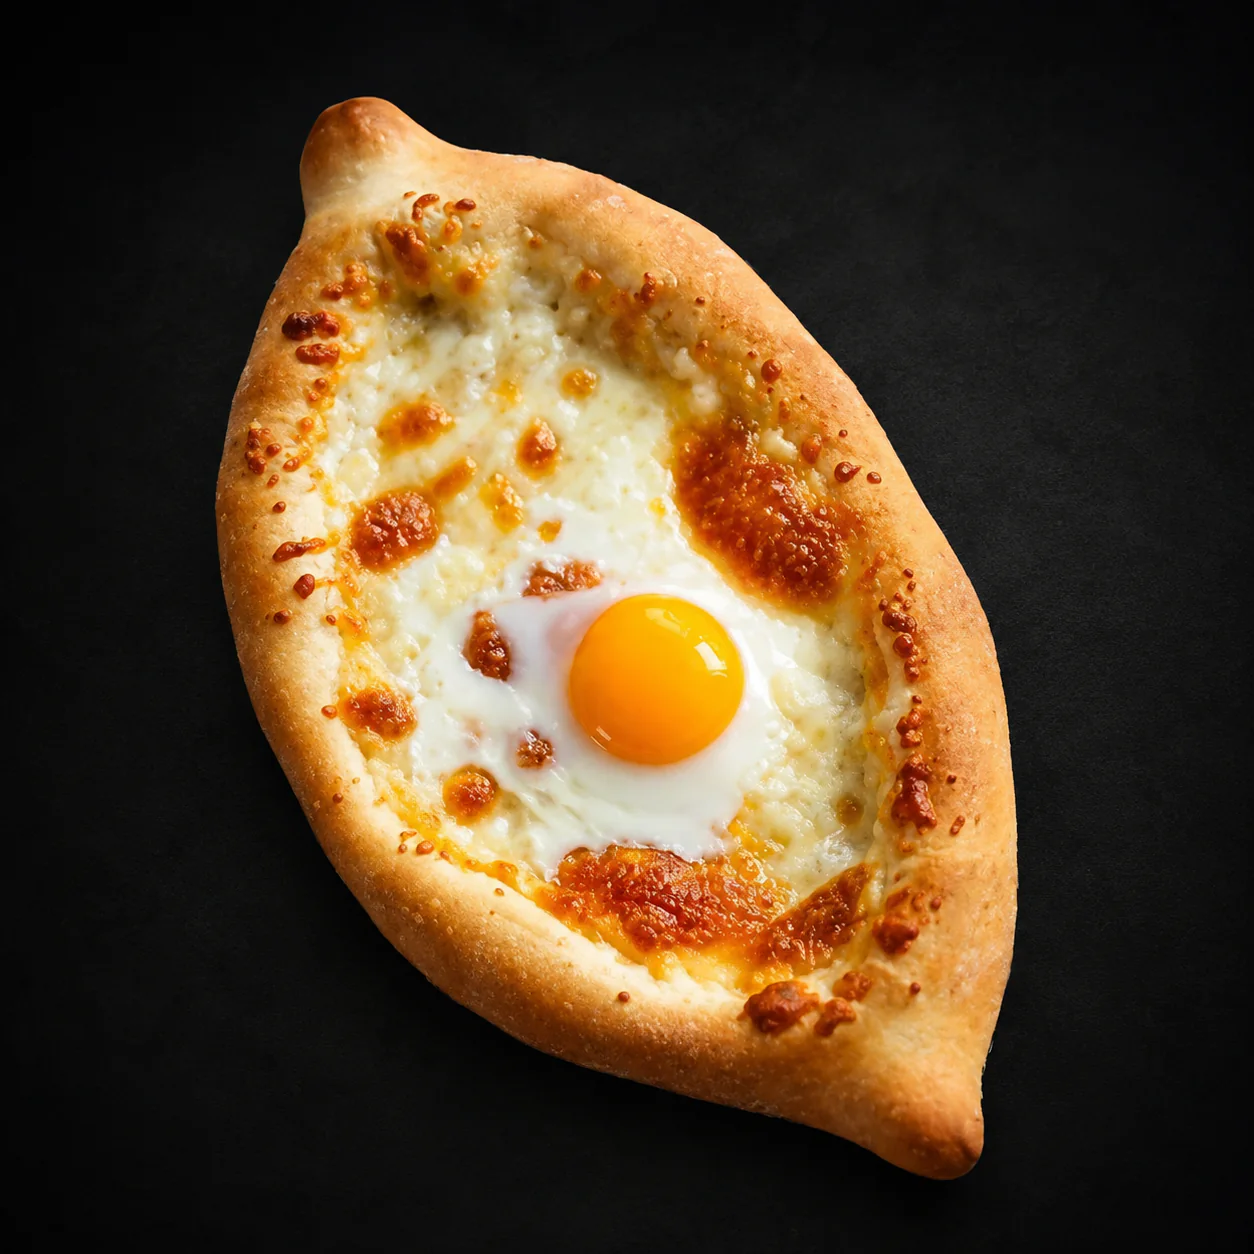
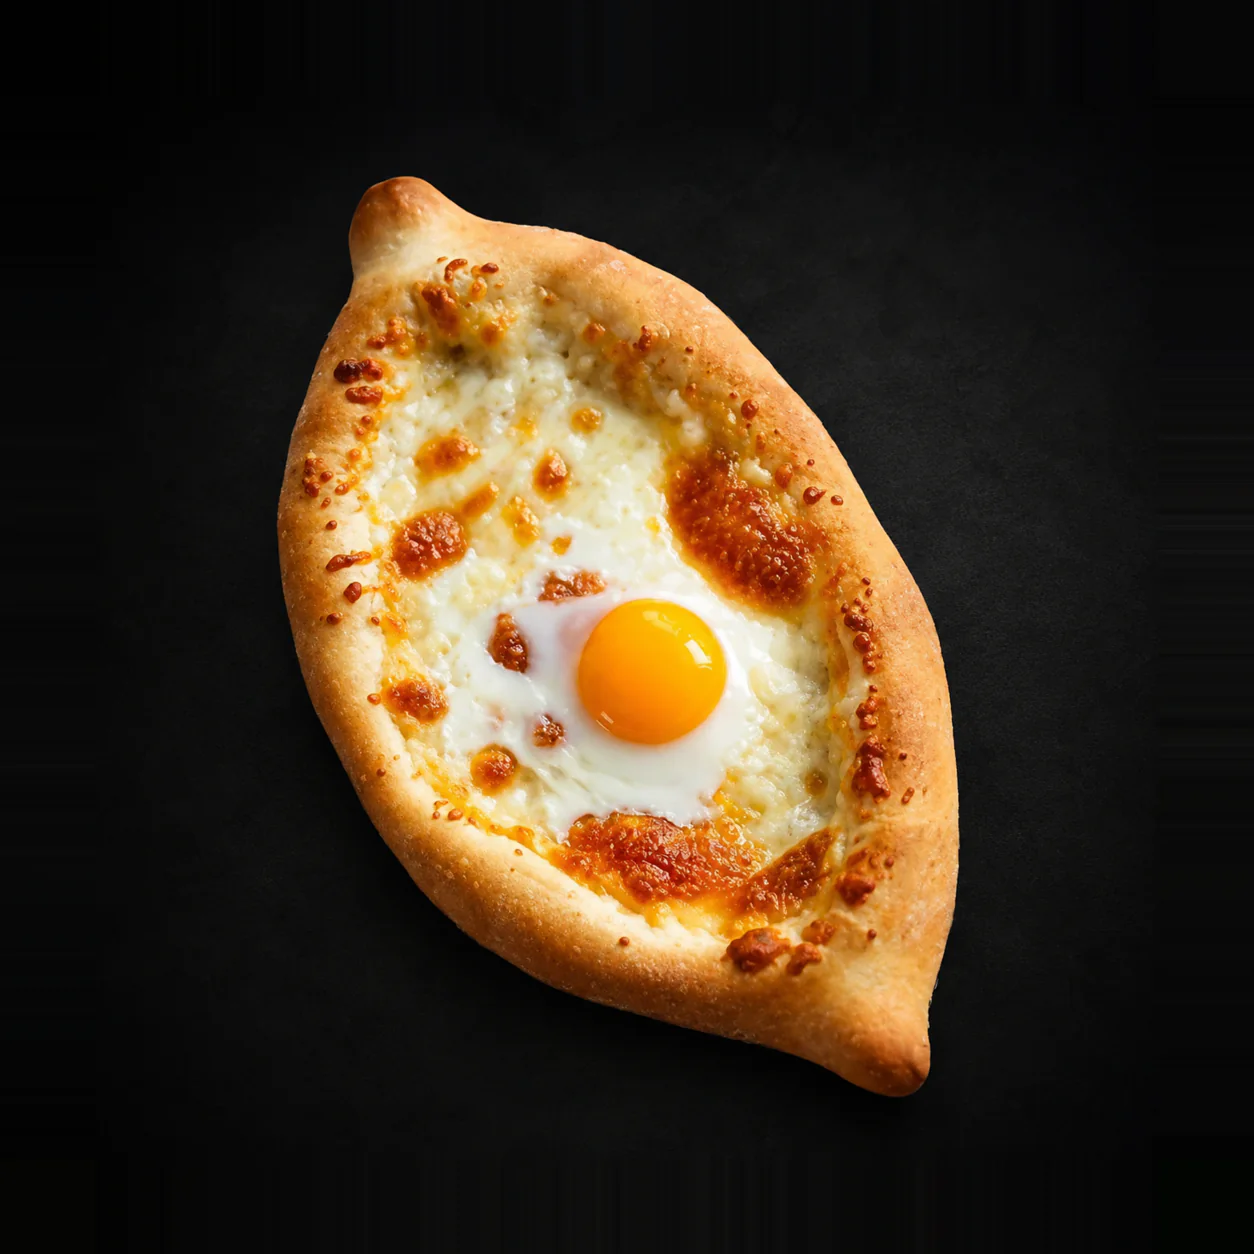
Fit the khachapuri medallion and give soups a photo
The Adjarian khachapuri arrived framed corner to corner: its boat reached
1.012 of the frame radius, so the circular medallion sliced off the lower-right
tip. The site's carta strip crops the same file at 240 px behind a deeper
vignette, so it lost more. Re-exported from the delivered master, scaled to 0.85
about the centre with the dark ground extended outward, which puts the dish at
0.86 of the radius — level with manti.webp. Nothing was retouched or recomposed;
only the scale changed.

Soups had been running without a medallion because suyru-lagman.webp could never
be attributed to one of the two lagmans. The borscht photograph supplied on
2026-08-08 closes the slot unambiguously: the section already lists Borscht, and
the dish sits at 0.85 of the radius as delivered.

Recorded the medallion's fit budget where the next photo will be prepared: the
crop is the inscribed circle plus a rim vignette, so the dish has to stay inside
roughly 0.90 of the radius measured diagonally. The dish README now carries a
runnable check and the re-padding command.

Verified in all three locales: khachapuri and borscht render clear of the rim on
ES/EN desktop and RU at 375 px, and the khachapuri reads correctly in the site's
carta strip. Repository guard, menu build and tests, website lint and tests all
pass.

diff --git a/menu/ru.html b/menu/ru.html
@@ -267,7 +267,7 @@
       <p>Домашние согревающие супы на любой вкус</p>
     </div>
     <div class="section-body">
-
+      <figure class="section-photo"><img src="assets/dishes/borscht.webp" alt="Борщ" width="1254" height="1254" loading="lazy" decoding="async"></figure>
       <div class="menu-grid"><article class="menu-item" data-menu-item>
     <div class="item-heading">
       <h3>Уха от шефа</h3>

diff --git a/menu/index.html b/menu/index.html
@@ -264,7 +264,7 @@
       <p>Sopas caseras, reconfortantes para todos los gustos</p>
     </div>
     <div class="section-body">
-
+      <figure class="section-photo"><img src="assets/dishes/borscht.webp" alt="Borscht" width="1254" height="1254" loading="lazy" decoding="async"></figure>
       <div class="menu-grid"><article class="menu-item" data-menu-item>
     <div class="item-heading">
       <h3>Sopa de pescado</h3>

diff --git a/menu/en.html b/menu/en.html
@@ -264,7 +264,7 @@
       <p>Comforting homemade soups for every taste</p>
     </div>
     <div class="section-body">
-
+      <figure class="section-photo"><img src="assets/dishes/borscht.webp" alt="Borscht" width="1254" height="1254" loading="lazy" decoding="async"></figure>
       <div class="menu-grid"><article class="menu-item" data-menu-item>
     <div class="item-heading">
       <h3>Chef’s fish soup</h3>

diff --git a/PHOTO-BRIEF.md b/PHOTO-BRIEF.md
@@ -6,15 +6,19 @@
 
 ## Почему это нужно
 
-Все 10 фотографий блюд в меню вытащены из печатного PDF. В PDF они лежат при
+Изначально все фотографии блюд были вытащены из печатного PDF, где они лежат при
 **100–130 ppi и 315–800 px по длинной стороне** — это плотность для печати
 визитки, а не для экрана. При экспорте их растянули до 960 px, поэтому в
-медальонах видны мыло и артефакты JPEG: сильнее всего на манты, хачапури и
-плове. Ни одну из них нельзя показывать на ретине крупнее ~300 px, а дизайн
-меню и блок «La carta» на сайте показывают их как раз крупно.
+медальонах были видны мыло и артефакты JPEG. Ни одну из них нельзя показывать на
+ретине крупнее ~300 px, а дизайн меню и блок «La carta» на сайте показывают их
+как раз крупно.
 
-Отдельно: пяти блюд из пятнадцати вообще нет — разделы «Салаты», «Супы»,
-«Мангал», «Коктейли» и «Вино» сейчас идут без медальона.
+Поставки клиента 07–08.08.2026 закрыли девять слотов авторскими кадрами
+1254 × 1254. Из PDF остались два — `fruit-shakes.webp` и `hookah.webp`.
+
+Отдельно: четырёх блюд из пятнадцати вообще нет — разделы «Салаты», «Мангал»,
+«Коктейли» и «Вино» сейчас идут без медальона. «Супы» закрыты кадром борща от
+08.08.2026.
 
 ## Технические требования (общие)
 
@@ -28,7 +32,7 @@
 | Фон | тёмный, тёплый (#0a0907 … #1a150c), однородный, без белой скатерти |
 | Освещение | одна тёплая рисующая слева, мягкий контровой; направленный, не студийный «плоский» |
 | Ракурс | ровно сверху (flat lay) или 45°; **одинаково внутри одного меню** |
-| Композиция | блюдо по центру, вокруг 8–10 % воздуха: круглая маска срежет углы |
+| Композиция | блюдо по центру, вокруг 8–10 % воздуха. Маска — **круг, вписанный в квадрат**, плюс виньетка по ободу: считать запас надо по диагонали, а не по ширине. Самая дальняя точка блюда от центра — не дальше **0,90 радиуса** (проверка — в `assets/dishes/README.md`) |
 | Постобработка | без HDR, без пересвета бликов, тени сохраняем |
 
 Дополнительно, если получится: **тот же дубль с прозрачным фоном (PNG/WebP с
@@ -47,18 +51,22 @@
 | # | Файл | Раздел | Что снимать |
 | --- | --- | --- | --- |
 | 1 | `crispy-eggplant.webp` | Салаты | Хрустящие баклажаны в темпуре с томатами и базиликом |
-| 2 | `suyru-lagman.webp` | Супы | Суйру-лагман: пиала с бульоном, домашняя лапша, говядина, зелень |
 | 3 | `lula-kebab.webp` | Мангал | Люля-кебаб из баранины на углях, лаваш, красный лук |
 | 4 | `cocktails.webp` | Коктейли | Пара фирменных коктейлей на тёмной стойке, контровой свет по стеклу |
 | 5 | `wine.webp` | Вино | Бокал красного и бутылка Malbec, тёмный фон, блик по стеклу |
 
-### Закрыто — новые кадры от клиента (07.08.2026)
+Слот 2 (`suyru-lagman.webp`, Супы) снят с P1: раздел закрыт борщом. Кадр лагмана
+всё ещё пригодился бы, но тогда надо решить, какое из двух блюд («Суйру-лагман»
+или «Густой лагман») он показывает и какое из них ведёт раздел.
 
-Восемь слотов заменены авторскими кадрами 1254 × 1254 на чёрном фоне. Старые
+### Закрыто — новые кадры от клиента (07–08.08.2026)
+
+Девять слотов заменены авторскими кадрами 1254 × 1254 на чёрном фоне. Старые
 извлечения из PDF по этим позициям больше не используются.
 
 | # | Файл | Раздел | Что на кадре |
 | --- | --- | --- | --- |
+| 2 | `borscht.webp` | Супы | Борщ с говядиной и укропом, бородинский, чеснок, сметана (08.08.2026) |
 | 6 | `manti.webp` | На пару | Три манты-полумесяца со сметаной |
 | 7 | `adjarian-khachapuri.webp` | Из печи | «Лодочка» с сыром и желтком, кроп 1:1 |
 | 8 | `uzbek-plov.webp` | Фирменные блюда | Плов с говядиной, яйцом и маринованным луком |
@@ -71,6 +79,14 @@
 **Открытый вопрос:** клиент прислал два кадра с пельменями/мантами. Круглые с
 аджикой поставлены в «Сеты», полумесяцы со сметаной — в «На пару». Если
 задумывалось наоборот, поменять файлы местами (см. `assets/dishes/mapping.json`).
+
+**Хачапури перевыпущен 08.08.2026.** В исходной поставке «лодочка» лежала по
+диагонали от угла до угла и выходила на 1,012 радиуса кадра, поэтому круглый
+медальон срезал ей нижний правый нос — и в меню, и в блоке «La carta» на сайте,
+где виньетка ещё глубже. Кадр не переснимали и не ретушировали: мастер
+отмасштабирован относительно центра до 0,85, тёмный фон продлён до края
+(`magick -virtual-pixel edge -distort SRT '0.85 0'`). Блюдо встало на 0,86
+радиуса — вровень с `manti.webp`.
 
 ### Есть, качество терпимое (P2)
 

diff --git a/menu/assets/dishes/README.md b/menu/assets/dishes/README.md
@@ -8,7 +8,7 @@ medallions; absent files are omitted without a broken-image placeholder. Run
 - `draniki-salmon.webp` *(client photo)*
 - `crispy-eggplant.webp` *(missing)*
 - `adjarian-khachapuri.webp` *(client photo)*
-- `suyru-lagman.webp` *(missing)*
+- `borscht.webp` *(client photo)*
 - `lula-kebab.webp` *(missing)*
 - `uzbek-plov.webp` *(client photo)*
 - `manti.webp` *(client photo)*
@@ -27,9 +27,40 @@ screen. Shoot on a black ground: the medallion is a circular crop with only a
 light inner vignette, so a photograph on any other background shows a hard disc
 edge.
 
-The client-supplied files are 1254 × 1254 masters delivered 2026-08-07. The two
-remaining PDF extracts were pulled from the printed carta at 100–130 ppi and are
-still placeholders.
+**Leave the dish room to breathe.** The crop is the circle inscribed in the
+square, and the inner vignette shades the rim on top of that, so the dish has to
+stay inside roughly **0.90 of the frame radius** — measured corner to corner, not
+just left to right. A diagonal dish that fills the square will have its ends
+sliced off; that is what happened to the khachapuri, whose boat reached 1.012 of
+the radius before it was re-exported at 0.86. To check a candidate file:
+
+```sh
+python3 - <<'PY'
+import math, subprocess
+p = "adjarian-khachapuri.webp"
+w, h = (int(v) for v in subprocess.run(
+    ["magick", "identify", "-format", "%w %h", p],
+    capture_output=True, text=True).stdout.split())
+g = subprocess.run(["magick", p, "-colorspace", "Gray", "-depth", "8", "gray:-"],
+                   capture_output=True).stdout
+cx, cy, r = (w - 1) / 2, (h - 1) / 2, min(w, h) / 2
+far = max((math.hypot(x - cx, y - cy)
+           for y in range(h) for x in range(w) if g[y * w + x] > 70), default=0)
+print(f"{p}: dish reaches {far / r:.3f} of the radius (keep under 0.90)")
+PY
+```
+
+If a delivered file is too tight, scale it about its centre and extend the ground
+outward rather than recomposing the shot:
+
+```sh
+magick master.png -virtual-pixel edge -distort SRT '0.85 0' padded.png
+cwebp -q 84 -m 6 -sharp_yuv padded.png -o dish.webp
+```
+
+The client-supplied files are 1254 × 1254 masters delivered 2026-08-07, plus
+`borscht.webp` supplied 2026-08-08. The two remaining PDF extracts were pulled
+from the printed carta at 100–130 ppi and are still placeholders.
 
 Shooting direction, per-file priorities and the website slots are in
 [`../../../PHOTO-BRIEF.md`](../../../PHOTO-BRIEF.md). Provenance of the current
